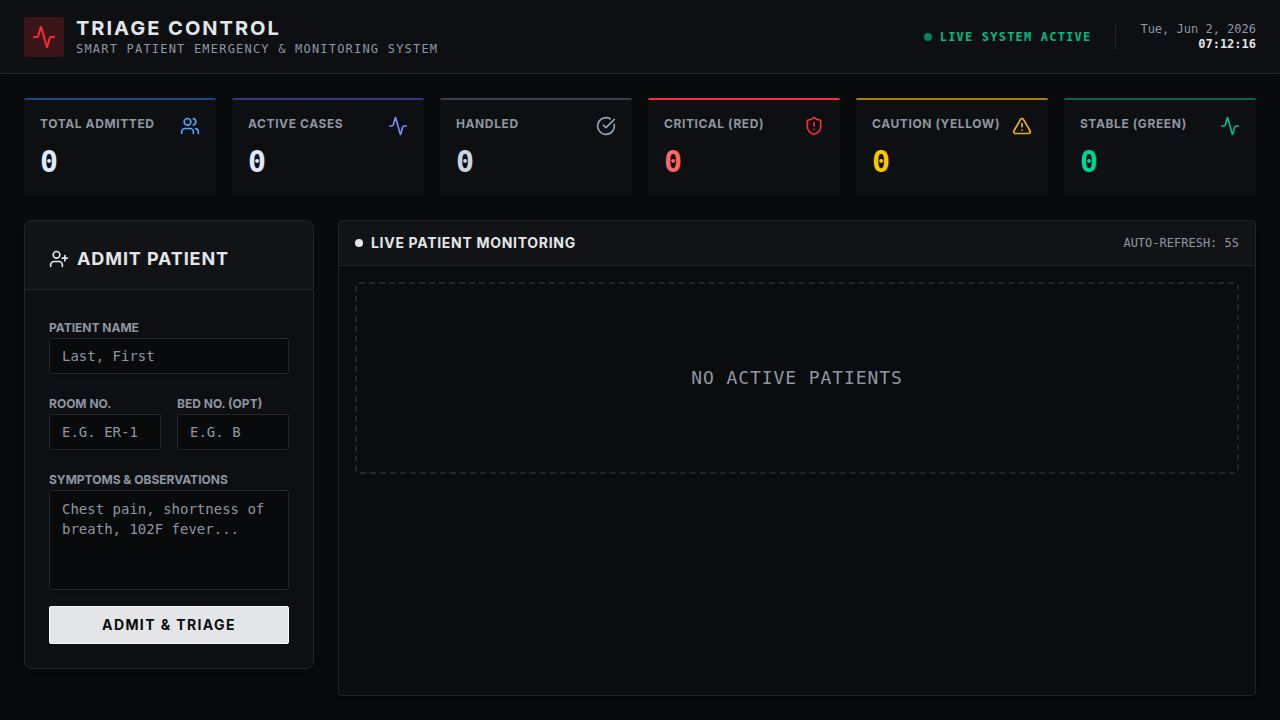
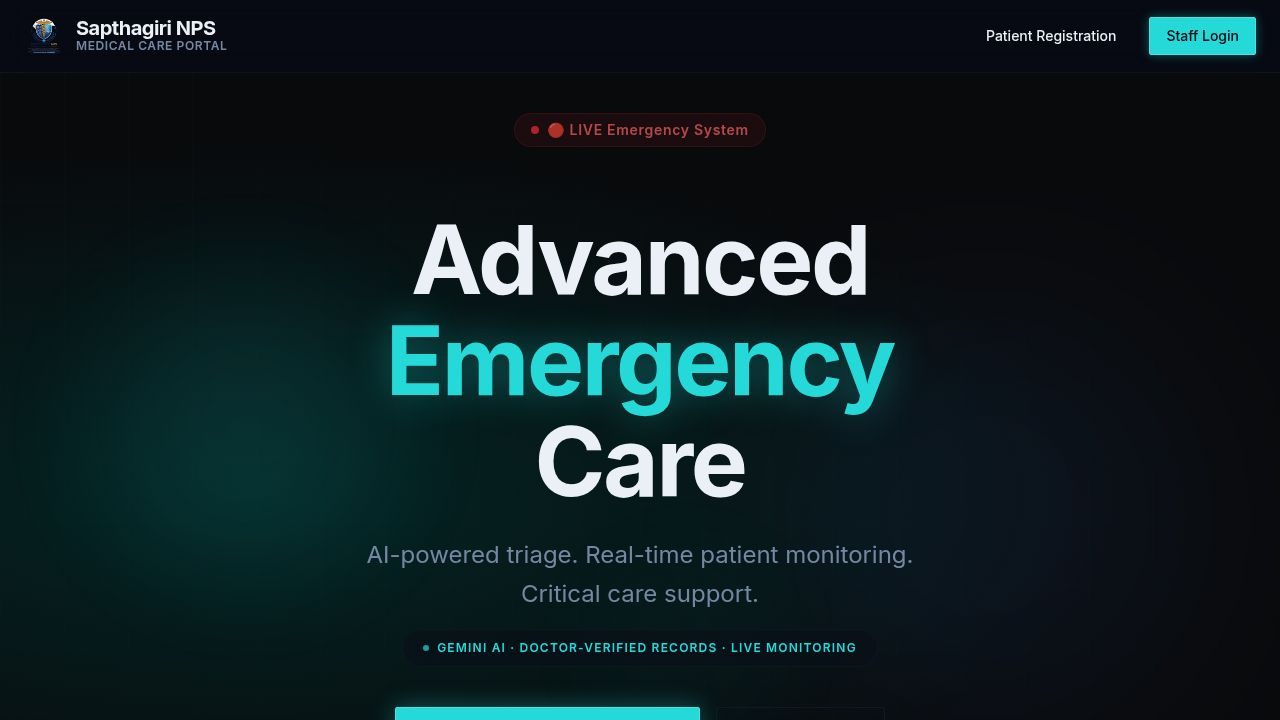
Add a demo mode for sending verification codes
Update OTP sending logic to include a demo mode fallback and display it in the UI.

Replit-Commit-Author: Agent
Replit-Commit-Session-Id: 2a533307-bf31-46a2-a127-f82af2c43d1e
Replit-Commit-Checkpoint-Type: full_checkpoint
Replit-Commit-Event-Id: 6191bea3-79db-4eec-88b0-8919da6c0db6
Replit-Commit-Screenshot-Url: https://storage.googleapis.com/screenshot-production-us-central1/5e96c26b-a558-44b0-8137-32c6de81a0de/2a533307-bf31-46a2-a127-f82af2c43d1e/6RG5Mby
Replit-Helium-Checkpoint-Created: true

diff --git a/artifacts/api-server/src/routes/otp.ts b/artifacts/api-server/src/routes/otp.ts
@@ -17,29 +17,33 @@ function generateOtp(): string {
   return Math.floor(100000 + Math.random() * 900000).toString();
 }
 
-async function sendSms(phone: string, otp: string): Promise<void> {
+/** Returns true if SMS was delivered, false if demo-mode fallback was used */
+async function trySendSms(phone: string, otp: string): Promise<boolean> {
   const apiKey = process.env.FAST2SMS_API_KEY;
 
   if (!apiKey) {
-    // Dev fallback: log OTP to server console (visible in Replit workflow logs)
-    console.log(
-      `\n${"─".repeat(50)}\n[OTP-DEV] Phone: +91${phone}  →  OTP: ${otp}\nAdd FAST2SMS_API_KEY to env for real SMS delivery.\n${"─".repeat(50)}\n`
-    );
-    return;
+    console.log(`\n${"─".repeat(50)}\n[OTP-DEMO] +91${phone} → ${otp}\n${"─".repeat(50)}\n`);
+    return false;
   }
 
   const url = new URL("https://www.fast2sms.com/dev/bulkV2");
   url.searchParams.set("authorization", apiKey);
-  url.searchParams.set("variables_values", otp);
-  url.searchParams.set("route", "otp");
+  url.searchParams.set("message", `Your Sapthagiri NPS University OTP is: ${otp}. Valid for 2 minutes. Do not share.`);
+  url.searchParams.set("language", "english");
+  url.searchParams.set("route", "q");
   url.searchParams.set("numbers", phone);
 
-  const res = await fetch(url.toString());
-  const data = (await res.json()) as { return: boolean; message?: string };
-
-  if (!data.return) {
-    throw new Error(data.message ?? "Fast2SMS delivery failed");
+  try {
+    const res = await fetch(url.toString());
+    const data = (await res.json()) as { return: boolean; message?: string };
+    if (data.return) return true;
+    // SMS provider returned an error — fall through to demo mode
+    console.log(`[OTP-DEMO] SMS failed (${data.message}). Falling back to demo mode. +91${phone} → ${otp}`);
+  } catch {
+    console.log(`[OTP-DEMO] SMS fetch error. Falling back. +91${phone} → ${otp}`);
   }
+
+  return false;
 }
 
 // POST /api/otp/send  { phone: "[phone redacted]" }
@@ -54,13 +58,12 @@ router.post("/otp/send", async (req, res) => {
   const otp = generateOtp();
   otpStore.set(phone, { otp, expiry: Date.now() + OTP_TTL_MS, attempts: 0 });
 
-  try {
-    await sendSms(phone, otp);
-    res.json({ success: true });
-  } catch (err) {
-    const msg = err instanceof Error ? err.message : "Unknown error";
-    req.log?.error({ err }, "OTP send failed");
-    res.status(500).json({ error: `SMS failed: ${msg}` });
+  const smsSent = await trySendSms(phone, otp);
+  if (smsSent) {
+    res.json({ success: true, sms: true });
+  } else {
+    // Demo mode: return OTP in response so frontend can display it
+    res.json({ success: true, sms: false, demo_otp: otp });
   }
 });
 

diff --git a/artifacts/dashboard/src/pages/SignUpPage.tsx b/artifacts/dashboard/src/pages/SignUpPage.tsx
@@ -38,16 +38,20 @@ const OTP_TTL = 120; // seconds
 
 type Step = "phone" | "otp" | "profile";
 
-async function apiSendOtp(phone: string): Promise<void> {
+interface SendOtpResult {
+  sms: boolean;
+  demo_otp?: string;
+}
+
+async function apiSendOtp(phone: string): Promise<SendOtpResult> {
   const res = await fetch("/api/otp/send", {
     method: "POST",
     headers: { "Content-Type": "application/json" },
     body: JSON.stringify({ phone: phone.replace(/\D/g, "") }),
   });
-  if (!res.ok) {
-    const body = await res.json().catch(() => ({}));
-    throw new Error((body as { error?: string }).error ?? "Failed to send OTP");
-  }
+  const body = await res.json().catch(() => ({})) as { error?: string; sms?: boolean; demo_otp?: string };
+  if (!res.ok) throw new Error(body.error ?? "Failed to send OTP");
+  return { sms: body.sms ?? false, demo_otp: body.demo_otp };
 }
 
 async function apiVerifyOtp(phone: string, otp: string): Promise<void> {
@@ -77,6 +81,7 @@ export default function SignUpPage() {
   const [otpError, setOtpError] = useState("");
   const [verifying, setVerifying] = useState(false);
   const [countdown, setCountdown] = useState(0);
+  const [demoOtp, setDemoOtp] = useState<string | undefined>(undefined);
   const timerRef = useRef<ReturnType<typeof setInterval> | null>(null);
 
   // Step 3 — profile
@@ -122,7 +127,8 @@ export default function SignUpPage() {
     setPhoneError("");
     setSending(true);
     try {
-      await apiSendOtp(cleaned);
+      const result = await apiSendOtp(cleaned);
+      setDemoOtp(result.demo_otp);
       setEnteredOtp("");
       setOtpError("");
       startTimer();
@@ -137,7 +143,8 @@ export default function SignUpPage() {
   const handleResendOtp = async () => {
     setSending(true);
     try {
-      await apiSendOtp(phone.trim());
+      const result = await apiSendOtp(phone.trim());
+      setDemoOtp(result.demo_otp);
       setEnteredOtp("");
       setOtpError("");
       startTimer();
@@ -318,6 +325,24 @@ export default function SignUpPage() {
             </CardHeader>
             <CardContent>
               <form onSubmit={handleVerifyOtp} className="space-y-4">
+                {/* Demo OTP banner — shown when SMS provider isn't funded */}
+                {demoOtp && (
+                  <div className="rounded-lg border border-amber-500/40 bg-amber-500/10 p-3">
+                    <p className="text-[10px] font-black uppercase tracking-widest text-amber-400 mb-1.5 flex items-center gap-1.5">
+                      <ShieldCheck className="w-3 h-3" /> Demo Mode — SMS not yet activated
+                    </p>
+                    <div className="flex items-center justify-between">
+                      <span className="text-xs text-amber-300/70">Your OTP code:</span>
+                      <span className="font-mono text-2xl font-black tracking-[0.4rem] text-amber-300">
+                        {demoOtp}
+                      </span>
+                    </div>
+                    <p className="text-[10px] text-amber-400/50 mt-1">
+                      Fund your Fast2SMS account to switch to real SMS delivery.
+                    </p>
+                  </div>
+                )}
+
                 {/* Timer display */}
                 <div className={`flex items-center justify-between p-3 rounded-lg border text-sm font-mono ${
                   countdown > 0
@@ -326,7 +351,9 @@ export default function SignUpPage() {
                 }`}>
                   <span className="flex items-center gap-1.5 text-xs uppercase tracking-wider font-bold">
                     {countdown > 0 ? (
-                      <><MessageSquare className="w-3 h-3" /> OTP sent to your phone</>
+                      demoOtp
+                        ? <><MessageSquare className="w-3 h-3" /> Use the code above</>
+                        : <><MessageSquare className="w-3 h-3" /> OTP sent via SMS</>
                     ) : (
                       <><RefreshCw className="w-3 h-3" /> OTP expired</>
                     )}